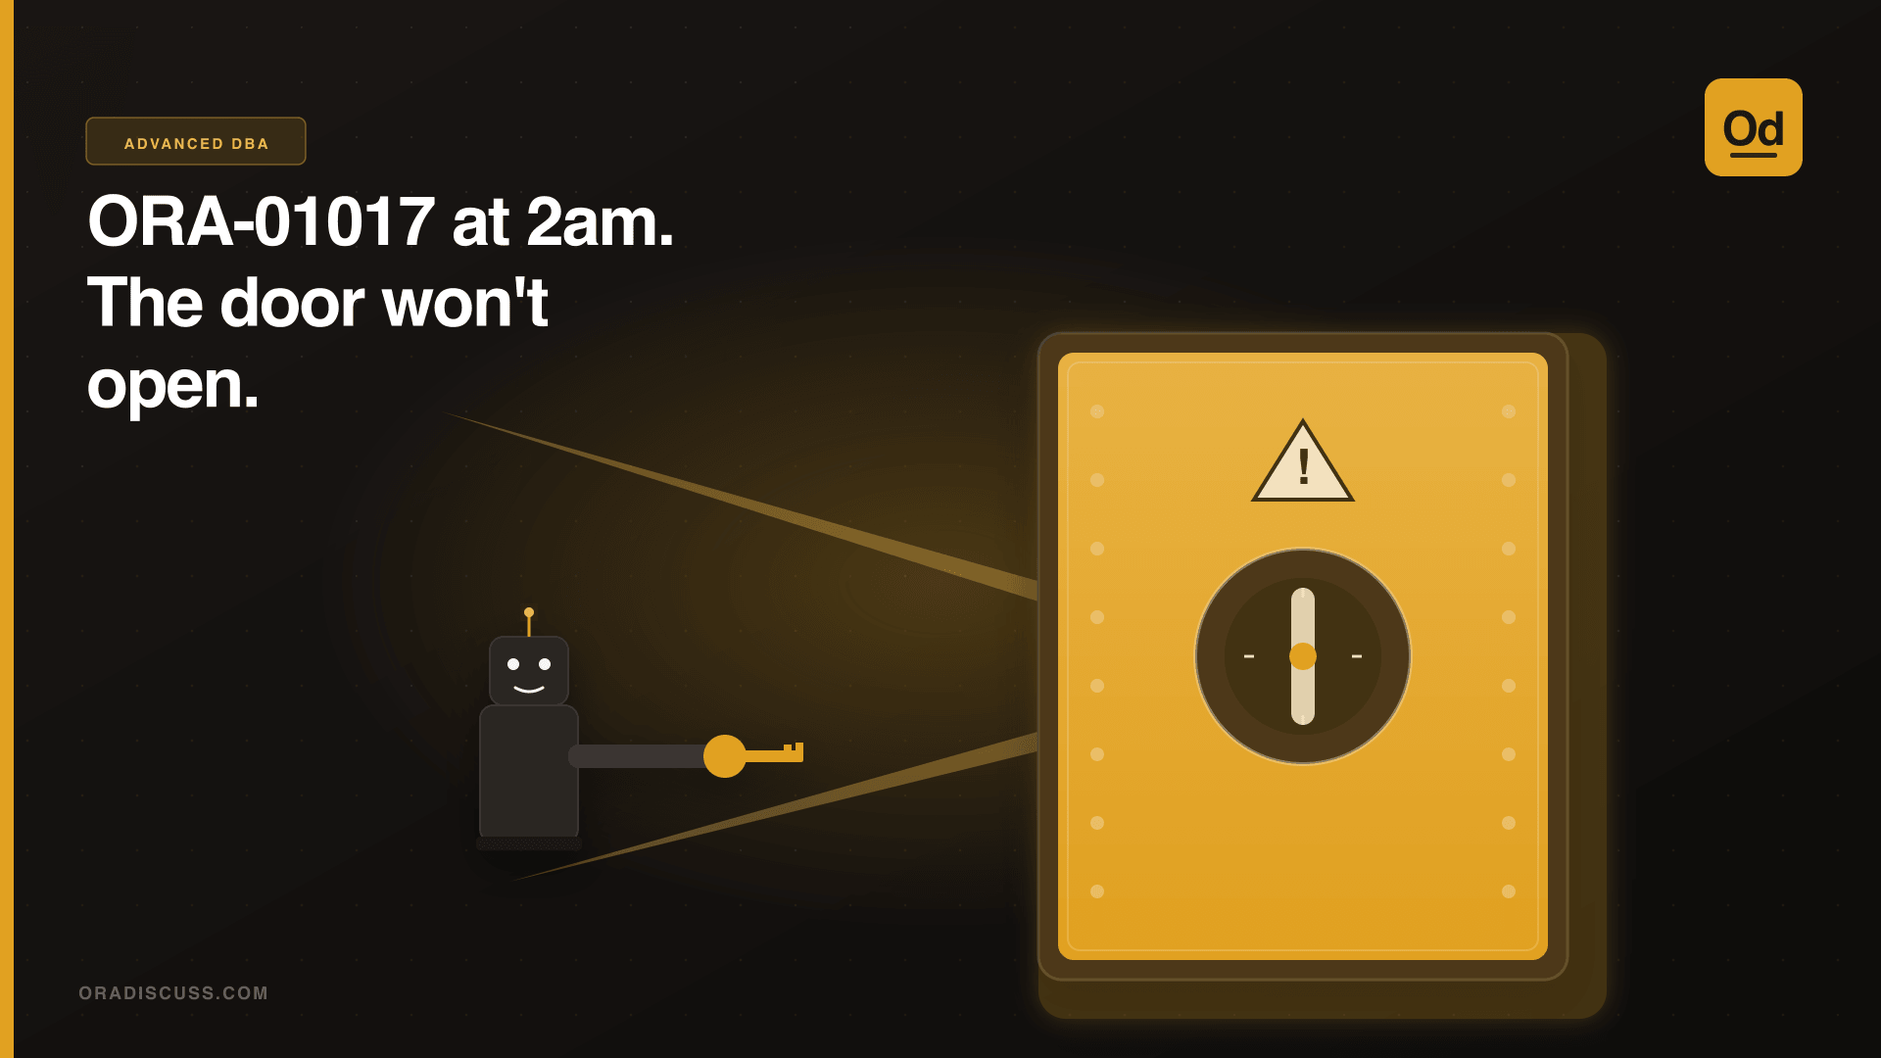
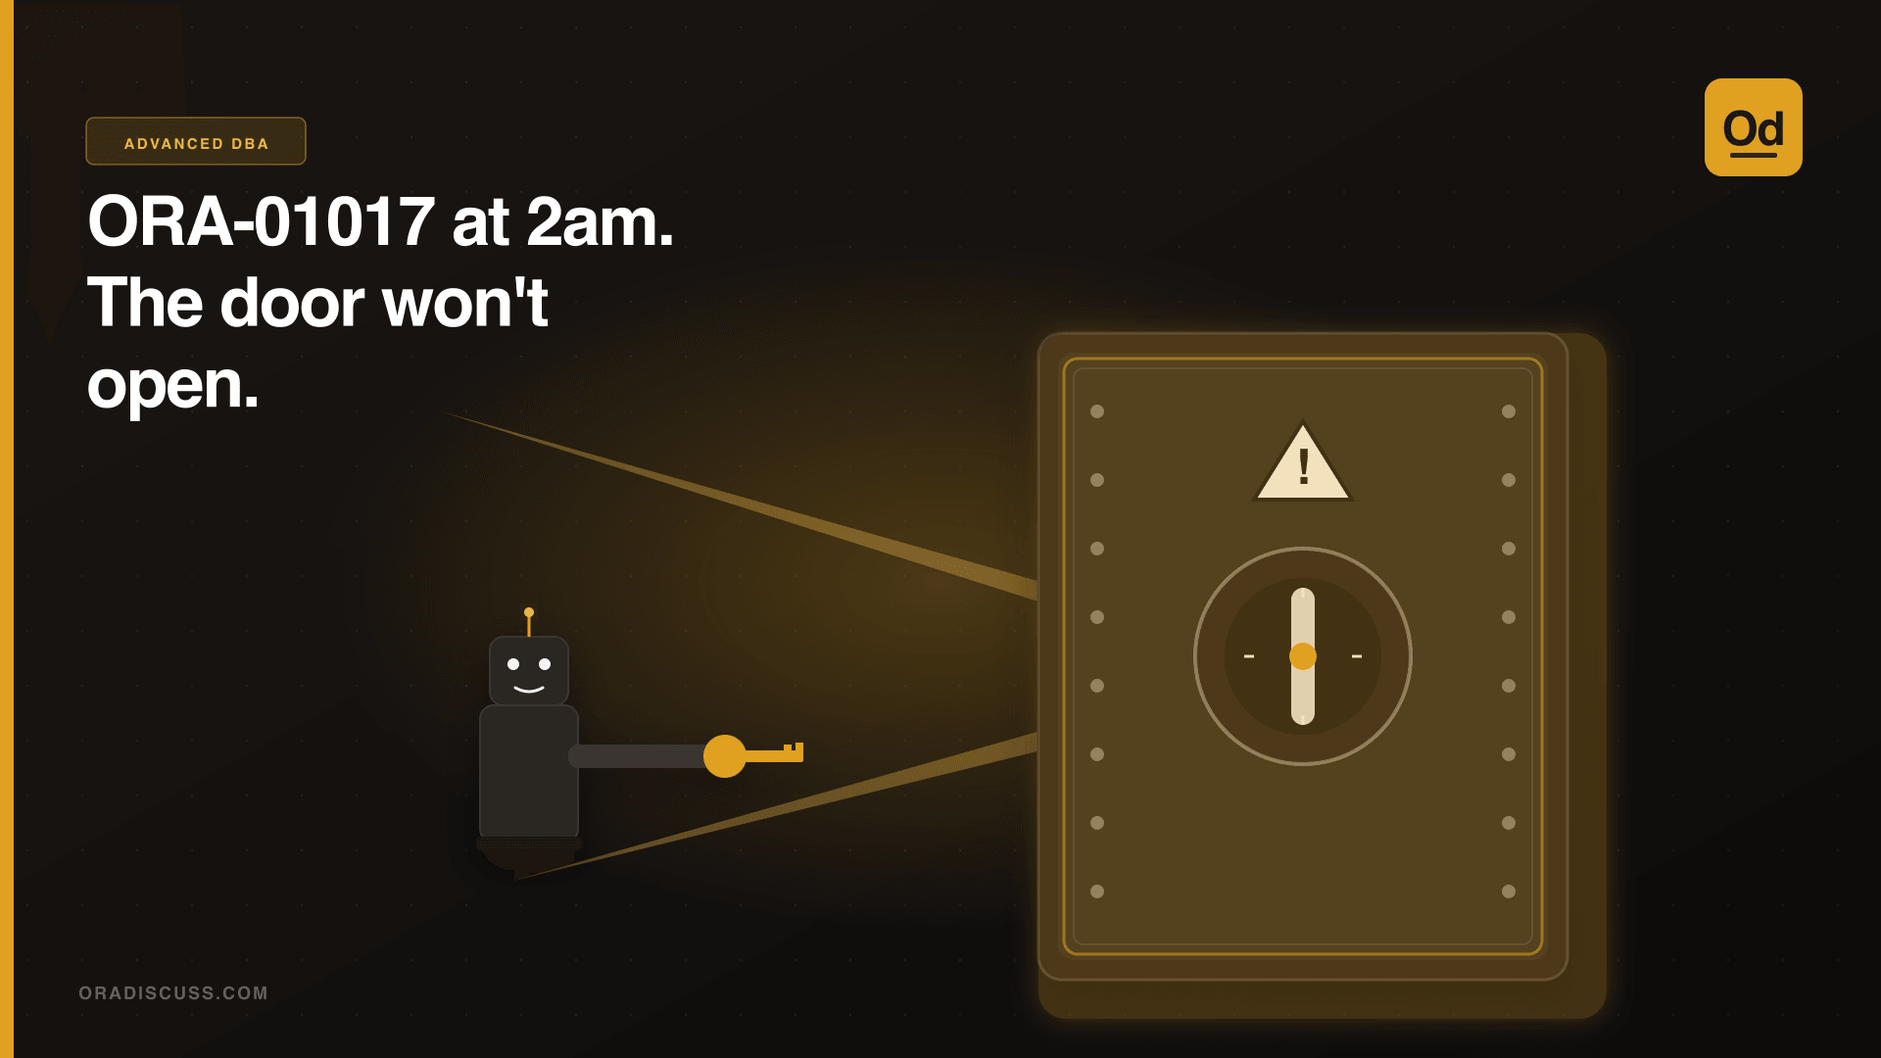
covers+palette: tone the vault, revalidating cover cache, --red* cleanup, remap tool
Follows frontier-model review (advisor Fable 5 + Kimi K3.0) of the covers lane:

- fix-ora-01017 vault: the door body was a large flat gold slab that out-shouted
  the Od brand chip. Now a charcoal door with a gold rim; the gold leak-glow and
  alarm beams keep the drama at accent level, not fill level. Still red=0.
- public/_headers: blog covers (/images/blog/*) move off max-age=1yr,immutable to
  1-day revalidate. They live at stable URLs and change over time (rebrands,
  updates), so a byte swap must reach returning readers rather than being pinned
  for a year. Logo/favicons stay immutable.
- global.css --red* compatibility shim deleted: --red/--red-dark were unreferenced
  and removed; --red-light/--red-faint/--red-faint-2 renamed to --act-* across the
  repo (incl. about.astro and index.astro, which consumed the global tokens). Zero
  var(--red*) remain. The misleading red names are gone from an amber site.
- scripts/brand/remap-cover-red.py: the hue-remap method the 4 light covers used,
  committed so the recolour is reproducible for the next cover touch-up.

Changed region(s): [[0.5625, 0.3056, 0.8438, 0.9167]]

diff --git a/src/styles/global.css b/src/styles/global.css
@@ -96,14 +96,14 @@
   --ink-4:var(--ink3);
   --border:var(--hair);
   --border-2:var(--hair-2);
-  /* --red* now carry Instrument Amber (Oracle red dropped entirely). Names are
-     retained as the seam for ~46 existing refs; slated for deletion, not rename,
-     in a mechanical pass after this lane promotes. */
-  --red:var(--act);
-  --red-dark:var(--act-2);
-  --red-light:#C97F35;
-  --red-faint:rgba(138,75,18,.07);
-  --red-faint-2:rgba(138,75,18,.16);
+  /* Action-tint tokens, all derived from the action colour: a light amber and
+     two faint amber washes for hovers, focus rings and soft fills. (These were
+     the --red* compatibility shim from the palette lane; Oracle red is dropped
+     entirely and the misleading red names are now gone. --red and --red-dark
+     were unreferenced and removed outright.) */
+  --act-light:#C97F35;
+  --act-faint:rgba(138,75,18,.07);
+  --act-faint-2:rgba(138,75,18,.16);
   --slate:#0B1B34;
   --slate-2:#173463;
   --warn:#B8730B;
@@ -114,7 +114,7 @@
   --mono:"JetBrains Mono",ui-monospace,Menlo,Consolas,monospace;
   --r-sm:7px;--r-md:11px;--r-lg:13px;--r-pill:999px;
   /* older aliases still, kept so nothing that names them breaks */
-  --p:var(--act);--p2:var(--act-2);--p3:var(--red-light);
+  --p:var(--act);--p2:var(--act-2);--p3:var(--act-light);
   --co:var(--act);--co2:var(--act-2);--tl:var(--ink3);--bl:var(--blue);
   --dk:var(--ink);--dm:var(--ink2);--dl:var(--ink-4);
   --bd:var(--hair);--bd2:var(--hair-2);--gl:var(--surface);
@@ -151,7 +151,7 @@ a.PC, a.promo-card, a.glass-card { text-decoration: none; color: inherit }
 
 #SB{position:fixed;top:0;left:0;height:2px;background:var(--act);z-index:999;width:0;pointer-events:none}
 .orb{display:none !important}
-::selection{background:var(--red-faint-2);color:var(--ink)}
+::selection{background:var(--act-faint-2);color:var(--ink)}
 
 /* =====================================================================
    PRIMITIVES
@@ -251,14 +251,14 @@ nav a{
   padding:8px 13px;border-radius:var(--r-sm);transition:color .15s,background .15s;
   cursor:pointer;white-space:nowrap;position:relative
 }
-nav a:hover{color:var(--act);background:var(--red-faint)}
+nav a:hover{color:var(--act);background:var(--act-faint)}
 nav a.act{color:var(--act);background:transparent}
 nav a.act::after{content:'';position:absolute;left:13px;right:13px;bottom:3px;height:2px;background:var(--act)}
 
 .HR{display:flex;align-items:center;gap:12px;margin-left:auto}
 
 .SIW{display:flex;align-items:center;gap:8px;background:var(--surface);border:1px solid var(--hair);border-radius:var(--r-sm);padding:8px 12px;width:240px;transition:border-color .15s,box-shadow .15s,width .2s;position:relative}
-.SIW:focus-within{border-color:var(--act);box-shadow:0 0 0 3px var(--red-faint);width:300px}
+.SIW:focus-within{border-color:var(--act);box-shadow:0 0 0 3px var(--act-faint);width:300px}
 .SIW input{background:none;border:none;outline:none;font-family:var(--arch);font-size:13px;color:var(--ink);width:100%}
 .SIW input::placeholder{color:var(--ink-4)}
 .SD{position:absolute;top:calc(100% + 6px);left:0;min-width:360px;background:var(--surface);border:1px solid var(--hair);border-radius:var(--r-md);overflow:hidden;display:none;box-shadow:var(--shadow-md);z-index:900}
@@ -269,8 +269,8 @@ nav a.act::after{content:'';position:absolute;left:13px;right:13px;bottom:3px;he
 .SRT{font-family:var(--arch);font-size:13px;font-weight:600;color:var(--ink);margin-bottom:2px;line-height:1.4}
 .SRC{font-family:var(--jb);font-size:10px;font-weight:600;color:var(--act);letter-spacing:.12em;text-transform:uppercase}
 
-.ace-btn{display:flex;align-items:center;gap:8px;background:var(--red-faint);border:1px solid var(--red-faint-2);border-radius:var(--r-sm);padding:5px 10px 5px 6px;font-family:var(--jb);font-size:11px;font-weight:600;letter-spacing:.04em;color:var(--act);text-decoration:none;transition:background .15s,border-color .15s;cursor:pointer;white-space:nowrap}
-.ace-btn:hover{background:var(--red-faint-2);border-color:var(--act)}
+.ace-btn{display:flex;align-items:center;gap:8px;background:var(--act-faint);border:1px solid var(--act-faint-2);border-radius:var(--r-sm);padding:5px 10px 5px 6px;font-family:var(--jb);font-size:11px;font-weight:600;letter-spacing:.04em;color:var(--act);text-decoration:none;transition:background .15s,border-color .15s;cursor:pointer;white-space:nowrap}
+.ace-btn:hover{background:var(--act-faint-2);border-color:var(--act)}
 .ace-btn img{width:26px;height:26px;flex-shrink:0;object-fit:contain;display:block}
 .ace-btn .ace-year{display:inline-block;background:var(--act);color:#fff;font-size:10px;font-weight:700;padding:2px 6px;border-radius:4px;letter-spacing:.06em;margin-left:2px}
 .ace-badge-lg{width:110px;height:110px;flex-shrink:0;object-fit:contain}
@@ -314,7 +314,7 @@ h1.HT{font-family:var(--sora);font-size:clamp(40px,5.2vw,68px);font-weight:800;c
 .auth-bio{font-size:14px;color:var(--ink2);line-height:1.65}
 .auth-badges{display:flex;gap:8px;flex-wrap:wrap}
 .ab{font-family:var(--jb);font-size:10.5px;font-weight:600;letter-spacing:.08em;padding:4px 10px;border-radius:var(--r-pill);border:1px solid;text-transform:uppercase}
-.ab-p{background:var(--red-faint);color:var(--act);border-color:var(--red-faint-2)}
+.ab-p{background:var(--act-faint);color:var(--act);border-color:var(--act-faint-2)}
 .ab-t,.ab-c{background:var(--surface);color:var(--ink3);border-color:var(--hair)}
 
 .hstat{display:flex;flex-direction:column;gap:3px}
@@ -446,7 +446,7 @@ footer{position:relative;z-index:1;border-top:1px solid var(--hair);background:v
 .art-prose h3{font-family:var(--sora);font-size:1.28rem;font-weight:700;color:var(--ink);font-style:normal;margin:2rem 0 .75rem;letter-spacing:-.025em}
 .art-prose p{margin-bottom:1.25rem;max-width:72ch}
 .art-prose strong{font-weight:600;color:var(--ink)}
-.art-prose a{color:var(--act);text-decoration:none;border-bottom:1px solid var(--red-faint-2);transition:border-color .15s}
+.art-prose a{color:var(--act);text-decoration:none;border-bottom:1px solid var(--act-faint-2);transition:border-color .15s}
 .art-prose a:hover{border-color:var(--act)}
 .art-prose pre{background:var(--slate);border:1px solid var(--slate-2);border-radius:var(--r-md);padding:20px 24px;font-family:var(--mono);font-size:13px;line-height:1.7;overflow-x:auto;margin:1.6rem 0;color:#DCE6F5}
 .art-prose code{font-family:var(--mono);font-size:.88em;font-weight:500;background:#EFEAE2;border:1px solid var(--hair);padding:1px 6px;border-radius:5px;color:var(--ink)}
@@ -482,7 +482,7 @@ footer{position:relative;z-index:1;border-top:1px solid var(--hair);background:v
 .cmt-star.interactive{cursor:pointer}
 .cmt-star.filled,.cmt-star.hovered{color:#D9963A}
 .cmt-input,.cmt-textarea{font-family:var(--arch);font-size:14px;padding:12px 14px;border-radius:var(--r-sm);border:1px solid var(--hair);background:var(--surface);color:var(--ink);outline:none;transition:border-color .15s,box-shadow .15s}
-.cmt-input:focus,.cmt-textarea:focus{border-color:var(--act);box-shadow:0 0 0 3px var(--red-faint)}
+.cmt-input:focus,.cmt-textarea:focus{border-color:var(--act);box-shadow:0 0 0 3px var(--act-faint)}
 .cmt-textarea{resize:vertical;min-height:88px}
 .cmt-submit{font-family:var(--arch);font-size:14px;font-weight:600;padding:12px 24px;border-radius:var(--r-btn);border:1px solid var(--act);background:var(--act);color:#fff;cursor:pointer;align-self:flex-start;box-shadow:var(--shadow-act);transition:background .15s,border-color .15s}
 .cmt-submit:hover{background:var(--act-2);border-color:var(--act-2)}
@@ -499,7 +499,7 @@ footer{position:relative;z-index:1;border-top:1px solid var(--hair);background:v
 .cmt-text{font-family:var(--arch);font-size:14px;color:var(--ink2);line-height:1.65}
 .cmt-actions{margin-top:10px}
 .cmt-reply-btn{font-family:var(--jb);font-size:10.5px;font-weight:600;letter-spacing:.1em;text-transform:uppercase;padding:6px 11px;border-radius:var(--r-sm);border:1px solid var(--hair);background:transparent;color:var(--ink3);cursor:pointer;transition:color .15s,border-color .15s,background .15s}
-.cmt-reply-btn:hover{color:var(--act);border-color:var(--act);background:var(--red-faint)}
+.cmt-reply-btn:hover{color:var(--act);border-color:var(--act);background:var(--act-faint)}
 .cmt-children{margin-top:14px;margin-left:22px;padding-left:16px;border-left:1px solid var(--hair);display:flex;flex-direction:column;gap:14px}
 .cmt-item.cmt-depth-max .cmt-children{margin-left:0;padding-left:12px}
 .cmt-reply-slot:empty{display:none}
@@ -523,11 +523,11 @@ footer{position:relative;z-index:1;border-top:1px solid var(--hair);background:v
 .ai-tools-grid{display:grid;grid-template-columns:1fr 1fr;gap:20px;margin-top:0}
 .ai-tool-card{background:var(--surface);backdrop-filter:none;border:1px solid var(--hair);border-radius:var(--r-card);padding:28px;box-shadow:var(--shadow-sm);transition:border-color .15s,box-shadow .15s;display:flex;flex-direction:column;gap:14px;min-width:0}
 .ai-tool-card:hover{border-color:var(--hair-2);box-shadow:var(--shadow-md);transform:none}
-.ai-tool-icon{width:44px;height:44px;border-radius:var(--r-sm);background:var(--red-faint);color:var(--act);display:flex;align-items:center;justify-content:center;font-size:20px;border:1px solid var(--red-faint-2);box-shadow:none}
+.ai-tool-icon{width:44px;height:44px;border-radius:var(--r-sm);background:var(--act-faint);color:var(--act);display:flex;align-items:center;justify-content:center;font-size:20px;border:1px solid var(--act-faint-2);box-shadow:none}
 .ai-tool-title{font-family:var(--sora);font-size:18px;font-weight:700;color:var(--ink);font-style:normal;letter-spacing:-.025em}
 .ai-tool-desc{font-size:14px;color:var(--ink2);line-height:1.66;flex:1}
 .ai-tool-input{width:100%;background:var(--surface);border:1px solid var(--hair);border-radius:var(--r-sm);padding:12px 14px;font-family:var(--mono);font-size:13px;color:var(--ink);outline:none;resize:vertical;min-height:70px;transition:border-color .15s,box-shadow .15s}
-.ai-tool-input:focus{border-color:var(--act);box-shadow:0 0 0 3px var(--red-faint)}
+.ai-tool-input:focus{border-color:var(--act);box-shadow:0 0 0 3px var(--act-faint)}
 .ai-tool-input::placeholder{color:var(--ink-4)}
 .ai-tool-btn{background:var(--act);color:#fff;border:1px solid var(--act);border-radius:var(--r-btn);padding:12px 22px;font-family:var(--arch);font-size:14px;font-weight:600;cursor:pointer;transition:background .15s,border-color .15s;display:flex;align-items:center;gap:8px;justify-content:center}
 .ai-tool-btn:hover{background:var(--act-2);border-color:var(--act-2)}
@@ -561,7 +561,7 @@ footer{position:relative;z-index:1;border-top:1px solid var(--hair);background:v
 .ai-msg-role.u{color:var(--ink3)}
 .ai-msg-role.a{color:var(--act)}
 .ai-msg-bbl{border-radius:var(--r-md);padding:12px 15px;font-size:14px;line-height:1.66;max-width:92%}
-.ai-msg-bbl.u{background:var(--red-faint);border:1px solid var(--red-faint-2);color:var(--ink);font-family:var(--arch);font-size:13px;align-self:flex-end}
+.ai-msg-bbl.u{background:var(--act-faint);border:1px solid var(--act-faint-2);color:var(--ink);font-family:var(--arch);font-size:13px;align-self:flex-end}
 .ai-msg-bbl.a{background:var(--field-2);border:1px solid var(--hair);color:var(--ink2);box-shadow:none}
 .ai-msg-bbl.a code{font-family:var(--mono);font-size:12px;background:var(--surface);border:1px solid var(--hair);padding:1px 5px;border-radius:5px;color:var(--ink)}
 .ai-msg-bbl.a pre{margin:8px 0;background:var(--slate);border:1px solid var(--slate-2);border-radius:var(--r-md);padding:12px;font-family:var(--mono);font-size:12px;color:#DCE6F5;line-height:1.7;overflow-x:auto}
@@ -572,7 +572,7 @@ footer{position:relative;z-index:1;border-top:1px solid var(--hair);background:v
 
 .ai-chat-inp{padding:12px 16px;border-top:1px solid var(--hair);display:flex;gap:10px}
 .ai-chat-inp input{flex:1;min-width:0;background:var(--surface);border:1px solid var(--hair);border-radius:var(--r-sm);padding:11px 14px;font-family:var(--arch);font-size:14px;color:var(--ink);outline:none;transition:border-color .15s,box-shadow .15s}
-.ai-chat-inp input:focus{border-color:var(--act);box-shadow:0 0 0 3px var(--red-faint)}
+.ai-chat-inp input:focus{border-color:var(--act);box-shadow:0 0 0 3px var(--act-faint)}
 .ai-chat-inp input::placeholder{color:var(--ink-4)}
 .ai-chat-snd{background:var(--act);color:#fff;border:1px solid var(--act);border-radius:var(--r-sm);width:42px;height:42px;display:flex;align-items:center;justify-content:center;cursor:pointer;font-size:15px;transition:background .15s;flex-shrink:0}
 .ai-chat-snd:hover{background:var(--act-2);border-color:var(--act-2)}
@@ -603,8 +603,8 @@ footer{position:relative;z-index:1;border-top:1px solid var(--hair);background:v
 .svc-grid{display:grid;grid-template-columns:repeat(auto-fit,minmax(320px,1fr));gap:20px;margin:52px 0}
 .svc-card{background:var(--surface);backdrop-filter:none;border:1px solid var(--hair);border-radius:var(--r-card);padding:30px;min-width:0;transition:transform .22s var(--ease),border-color .22s,box-shadow .22s}
 .svc-card:hover{transform:translateY(-3px);border-color:var(--hair-2);box-shadow:var(--shadow-md)}
-.svc-card .svc-icon{width:46px;height:46px;border-radius:var(--r-sm);display:flex;align-items:center;justify-content:center;font-size:21px;margin-bottom:18px;background:var(--red-faint);color:var(--act);border:1px solid var(--red-faint-2)}
-.svc-card.s1 .svc-icon,.svc-card.s2 .svc-icon,.svc-card.s3 .svc-icon,.svc-card.s4 .svc-icon,.svc-card.s5 .svc-icon,.svc-card.s6 .svc-icon{background:var(--red-faint);color:var(--act);border:1px solid var(--red-faint-2)}
+.svc-card .svc-icon{width:46px;height:46px;border-radius:var(--r-sm);display:flex;align-items:center;justify-content:center;font-size:21px;margin-bottom:18px;background:var(--act-faint);color:var(--act);border:1px solid var(--act-faint-2)}
+.svc-card.s1 .svc-icon,.svc-card.s2 .svc-icon,.svc-card.s3 .svc-icon,.svc-card.s4 .svc-icon,.svc-card.s5 .svc-icon,.svc-card.s6 .svc-icon{background:var(--act-faint);color:var(--act);border:1px solid var(--act-faint-2)}
 .svc-card h3{font-family:var(--sora);font-size:21px;font-weight:700;font-style:normal;color:var(--ink);margin-bottom:10px;line-height:1.2;letter-spacing:-.03em}
 .svc-card p.svc-sub{color:var(--ink2);font-size:14.6px;line-height:1.66;margin-bottom:16px}
 .svc-card ul{list-style:none;padding:0;margin:0;border-top:1px solid var(--hair)}
@@ -684,7 +684,7 @@ footer{position:relative;z-index:1;border-top:1px solid var(--hair);background:v
 .cap-input{width:100%;min-width:0;background:var(--surface);border:1px solid var(--hair-2);
   border-radius:var(--r-btn);padding:13px 15px;font-family:var(--arch);font-size:15px;
   color:var(--ink);outline:none;transition:border-color .15s,box-shadow .15s}
-.cap-input:focus{border-color:var(--act);box-shadow:0 0 0 3px var(--red-faint)}
+.cap-input:focus{border-color:var(--act);box-shadow:0 0 0 3px var(--act-faint)}
 .cap-input:disabled{background:var(--field-2);border-color:var(--hair);color:var(--ink3);
   cursor:not-allowed;box-shadow:none}
 .cap-hint{font-size:13.5px;line-height:1.6;color:var(--ink3)}
@@ -776,7 +776,7 @@ footer{position:relative;z-index:1;border-top:1px solid var(--hair);background:v
 
 .capp-onward{display:inline-flex;align-items:center;gap:8px;font-family:var(--jb);font-size:11px;
   font-weight:600;letter-spacing:.13em;text-transform:uppercase;color:var(--act);text-decoration:none;
-  padding-bottom:6px;border-bottom:1px solid var(--red-faint-2);transition:border-color .18s,gap .18s;
+  padding-bottom:6px;border-bottom:1px solid var(--act-faint-2);transition:border-color .18s,gap .18s;
   width:fit-content}
 .capp-onward:hover{border-color:var(--act);gap:14px}
 .capp-onward::after{content:'\2192'}
@@ -902,7 +902,7 @@ footer{position:relative;z-index:1;border-top:1px solid var(--hair);background:v
   nav{position:fixed;top:0;right:-320px;width:300px;max-width:85vw;height:100vh;background:var(--surface);border-left:1px solid var(--hair);box-shadow:-20px 0 40px rgba(11,27,52,.1);padding:80px 18px 28px;flex-direction:column;gap:4px;z-index:795;transition:right .28s var(--ease);overflow-y:auto}
   nav.open{right:0}
   nav a{padding:14px 18px;font-size:15px;border-radius:var(--r-sm);border:1px solid transparent;width:100%;display:block}
-  nav a.act{background:var(--red-faint);border-color:var(--red-faint-2);color:var(--act)}
+  nav a.act{background:var(--act-faint);border-color:var(--act-faint-2);color:var(--act)}
   nav a.act::after{display:none}
   nav a:hover{background:var(--field-2)}
   .HR{margin-left:auto}

diff --git a/test/brand.test.js b/test/brand.test.js
@@ -234,8 +234,9 @@ const KNOWN_RED_NESTED = {
   // 2026) redrew the 12 that render on live articles into the ratified palette:
   // the 8 dark cartoon covers were re-skinned gold #E0A020 via
   // scripts/local-covers.mjs, and the 4 light covers were hue-remapped red->amber
-  // in place (the founder's hand-made art preserved, only the retired colour
-  // moved). Each pin is DELETED as this guard instructs once its cover is redrawn.
+  // in place via scripts/brand/remap-cover-red.py (the founder's hand-made art
+  // preserved, only the retired colour moved). Each pin is DELETED as this guard
+  // instructs once its cover is redrawn.
   // What remains are two ORPHANS: on disk but referenced by no article anywhere
   // in the repo (whole-repo sweep, 15 Aug 2026), so they render nowhere and are
   // not a launch seam. They stay pinned until the founder rules on deleting the

diff --git a/scripts/brand/remap-cover-red.py b/scripts/brand/remap-cover-red.py
@@ -1,0 +1,88 @@
+#!/usr/bin/env python3
+"""
+REMAP THE RETIRED RED TO WARM AMBER IN A HAND-MADE COVER, IN PLACE.
+
+Some article covers are bespoke PNGs with no SVG or generator source (parchment
+"DBA Field Notes" scenes, technical diagram covers). Recolouring them for the
+Instrument Amber rebrand cannot go through a generator, and recreating the art
+from scratch would lose the founder's hand-drawn illustration. So this shifts
+ONLY the retired-red pixels to warm amber/gold and leaves every other pixel of
+the drawing untouched: the purest "identity only" recolour.
+
+HOW. Each pixel is converted to HSV. Greys, paper and near-blacks (low
+saturation or low value) are left alone. A coloured pixel's distance from pure
+red decides a feather weight: full shift inside the red band, ramping to zero by
+45 degrees out, so anti-aliased edges transition smoothly instead of leaving a
+red fringe. Shifted pixels rotate their hue by +33 degrees (red -> gold/amber),
+which clears the brand guard's 20-degree red band by a comfortable margin, and
+their value is nudged down slightly so the amber reads on a cream ground. Hue
+rotation preserves the drawing's internal shading rather than flattening it to
+one colour.
+
+This is the exact transform used on 15 Aug 2026 for the four light covers
+(oradiscuss-db-19-28-to-19-30-cover[.|-1920x764], cover-part3,
+oradiscuss-zdt-oms-24108-cover-1920x764). Verify the result with
+scripts/brand/check-brand-red.py (expect red_family_pixels == 0) and by eye.
+
+  python3 scripts/brand/remap-cover-red.py IMAGE [IMAGE...]
+
+The dark cartoon covers are NOT remapped this way: they are regenerated from
+scripts/local-covers.mjs with a gold palette, because they have a source.
+"""
+
+import colorsys
+import sys
+
+from PIL import Image
+
+SHIFT_DEGREES = 33.0     # red -> gold/amber; clears the 20-degree guard band
+BAND_FULL = 18.0         # full shift within this many degrees of pure red
+BAND_EDGE = 45.0         # feather ramps to zero by here
+MIN_SAT = 0.22           # below this is paper/grey, left untouched
+MIN_VAL = 0.15           # below this is near-black, left untouched
+VALUE_DROP = 0.12        # slight darken of shifted pixels, for contrast on cream
+
+
+def dist_from_red(hue_deg):
+    return min(hue_deg, 360.0 - hue_deg)
+
+
+def remap_pixel(r, g, b):
+    h, s, v = colorsys.rgb_to_hsv(r / 255.0, g / 255.0, b / 255.0)
+    if s < MIN_SAT or v < MIN_VAL:
+        return (r, g, b)
+    d = dist_from_red(h * 360.0)
+    if d <= BAND_FULL:
+        w = 1.0
+    elif d >= BAND_EDGE:
+        return (r, g, b)
+    else:
+        w = (BAND_EDGE - d) / (BAND_EDGE - BAND_FULL)
+    nh = ((h * 360.0 + SHIFT_DEGREES * w) % 360.0) / 360.0
+    nv = v * (1.0 - VALUE_DROP * w)
+    nr, ng, nb = colorsys.hsv_to_rgb(nh, s, nv)
+    return (round(nr * 255), round(ng * 255), round(nb * 255))
+
+
+def remap_file(path):
+    im = Image.open(path).convert('RGB')
+    px = im.load()
+    w, h = im.size
+    for y in range(h):
+        for x in range(w):
+            px[x, y] = remap_pixel(*px[x, y])
+    im.save(path)
+    return im.size
+
+
+def main(argv):
+    if not argv:
+        raise SystemExit('usage: remap-cover-red.py IMAGE [IMAGE...]')
+    for path in argv:
+        size = remap_file(path)
+        sys.stdout.write('remapped %s %dx%d\n' % (path, size[0], size[1]))
+    return 0
+
+
+if __name__ == '__main__':
+    sys.exit(main(sys.argv[1:]))
